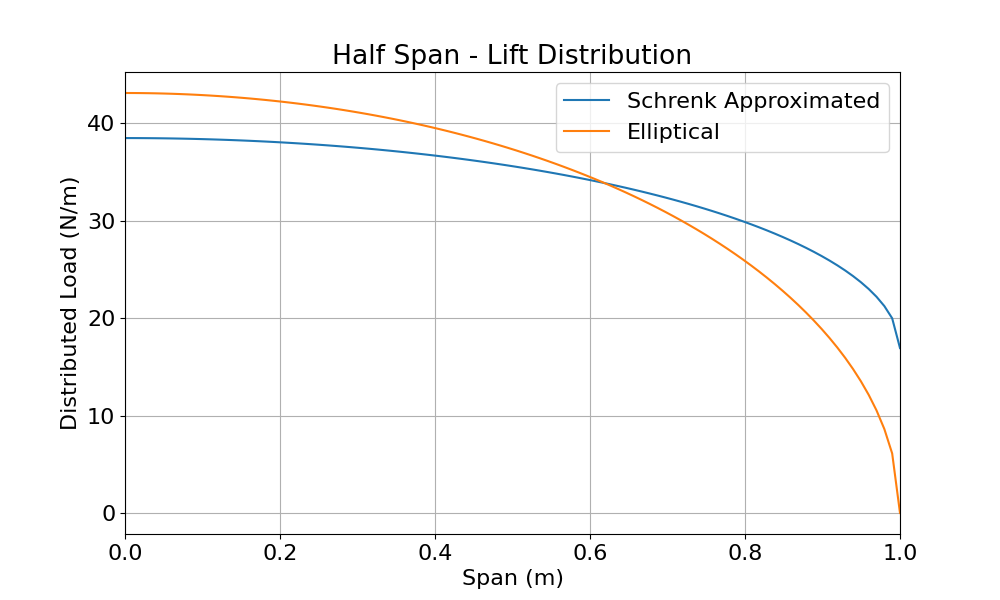
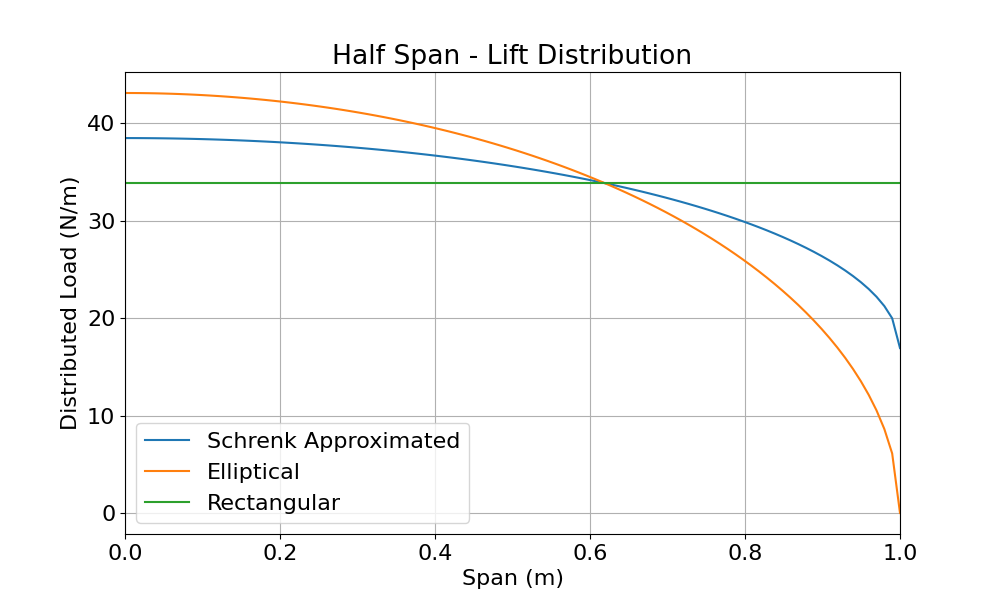
Correction to previous comments, modified the matlab to py code to set our values

diff --git a/AS5100_MP/week1_sd.py b/AS5100_MP/week1_sd.py
@@ -38,7 +38,7 @@ W = 6.9*9.81
 x = np.linspace(0, b/2, 100)
 
 c_elliptical = 4*S*np.sqrt(1 - (2*x/b)**2)/(np.pi*b)
-c_rectangular = 0.265
+c_rectangular = 0.265*np.ones_like(x)
 
 # Evaluating Schrenk Equivalent Chord
 c_schrenk = (c_rectangular + c_elliptical)/2
@@ -48,19 +48,21 @@ k = (W/2)/np.trapz(y=c_schrenk, x=x)
 
 q_schrenk = k*c_schrenk
 q_elliptical = k*c_elliptical
+q_rectangular = k*c_rectangular
 
 
-# # Lift Distribution Plot
-# plt.figure(figsize=(10, 6))
-# plt.plot(x, q_schrenk, label="Schrenk Approximated")
-# plt.plot(x, q_elliptical, label="Elliptical")
-# plt.title("Half Span - Lift Distribution")
-# plt.ylabel("Distributed Load (N/m)")
-# plt.xlabel("Span (m)")
-# plt.grid()
-# plt.legend()
-# plt.xlim(0, 1)
-# plt.show()
+# Lift Distribution Plot
+plt.figure(figsize=(10, 6))
+plt.plot(x, q_schrenk, label="Schrenk Approximated")
+plt.plot(x, q_elliptical, label="Elliptical")
+plt.plot(x, q_rectangular, label="Rectangular")
+plt.title("Half Span - Lift Distribution")
+plt.ylabel("Distributed Load (N/m)")
+plt.xlabel("Span (m)")
+plt.grid()
+plt.legend()
+plt.xlim(0, 1)
+plt.show()
 
 
 # Calculating Shear Force and Bending Moment 
@@ -74,32 +76,32 @@ for i in range(len(M)):
 np.savetxt("spanwise_shear_force.csv", np.column_stack((x, V)), delimiter=',')
 
 
-# # Shear Force Diagram
-# plt.figure(figsize=(10, 6))
-# plt.plot(x, V, label="Shear Force")
-# idx_Vmax = np.argmax(np.abs(V))
-# plt.scatter(idx_Vmax, -np.max(np.abs(V)), marker='^', c='r', s=75, label=f"Maximum Shear Force (Magnitude) = {max(abs(V)):.3g} N")
-# plt.title("Half Span - Shear Force Diagram")
-# plt.xlabel("Span (m)")
-# plt.ylabel("Shear Force (N)")
-# # plt.xlim(0, 1)
-# plt.legend()
-# plt.grid()
-# plt.show()
+# Shear Force Diagram
+plt.figure(figsize=(10, 6))
+plt.plot(x, V, label="Shear Force")
+idx_Vmax = np.argmax(np.abs(V))
+plt.scatter(idx_Vmax, -np.max(np.abs(V)), marker='^', c='r', s=75, label=f"Maximum Shear Force (Magnitude) = {max(abs(V)):.3g} N")
+plt.title("Half Span - Shear Force Diagram")
+plt.xlabel("Span (m)")
+plt.ylabel("Shear Force (N)")
+# plt.xlim(0, 1)
+plt.legend()
+plt.grid()
+plt.show()
 
 
-# # Bending Moment Diagram
-# plt.figure(figsize=(10, 6))
-# plt.plot(x, M, label="Bending Moment")
-# idx_Mmax = np.argmax(M)
-# plt.scatter(idx_Mmax, np.max(M), marker='^', c='r', s=75, label=f"Maximum Bending Moment (Magnitude) = {max(abs(M)):.3g} Nm")
-# plt.title("Half Span - Bending Moment Diagram")
-# plt.xlabel("Span (m)")
-# plt.ylabel("Bending Moment (Nm)")
-# # plt.xlim(0, 1)
-# plt.legend()
-# plt.grid()
-# plt.show()
+# Bending Moment Diagram
+plt.figure(figsize=(10, 6))
+plt.plot(x, M, label="Bending Moment")
+idx_Mmax = np.argmax(M)
+plt.scatter(idx_Mmax, np.max(M), marker='^', c='r', s=75, label=f"Maximum Bending Moment (Magnitude) = {max(abs(M)):.3g} Nm")
+plt.title("Half Span - Bending Moment Diagram")
+plt.xlabel("Span (m)")
+plt.ylabel("Bending Moment (Nm)")
+# plt.xlim(0, 1)
+plt.legend()
+plt.grid()
+plt.show()
 
 
 

diff --git a/AS5100_MP/without_spar/shear_flow.py b/AS5100_MP/without_spar/shear_flow.py
@@ -19,7 +19,7 @@ skin_thickness = 0.0005
 str_area = 10.0 * 0.001 * 0.001
 
 # Material / plate constants
-E = 70e9
+E = 69e9
 nu = 0.33
 
 # Shear force [N]
@@ -29,7 +29,7 @@ Vy = 100.0
 a = 0.20
 
 # Number of stringers on upper surface
-iu = 2
+iu = 4
 
 # Upper stringer indices
 # MATLAB indexing starts at 1, Python starts at 0.
@@ -39,18 +39,18 @@ iu = 2
 # ============================================================
 
 # Number of stringers
-iu = 2
-il = 2
+iu = 4
+il = 4
 
-# MATLAB-style panel boundary indices:
-# 1 = first point
-# 49 = last point
-iu_ind_matlab = np.array([1, 13, 25, 49])
-il_ind_matlab = np.array([1, 13, 25, 49])
+# # MATLAB-style panel boundary indices:
+# # 1 = first point
+# # 49 = last point
+# iu_ind_matlab = np.array([1, 13, 25, 49])
+# il_ind_matlab = np.array([1, 13, 25, 49])
 
-# Convert MATLAB indices to Python indices
-iu_ind = iu_ind_matlab - 1
-il_ind = il_ind_matlab - 1
+# # Convert MATLAB indices to Python indices
+# iu_ind = iu_ind_matlab - 1
+# il_ind = il_ind_matlab - 1
 
 # Plot settings
 font_size = 18
@@ -152,6 +152,33 @@ data1 = np.loadtxt(filename)
 data = data1 * c
 
 L = len(data)
+# mid = (L - 1) //2
+
+# iu_ind = np.linspace(0,   mid,   iu + 2).round().astype(int)
+# il_ind = np.linspace(mid, L - 1, il + 2).round().astype(int)
+
+iu_ind = np.array([0, 12, 16, 20, 30, 42])   # pick whichever point indices you want
+il_ind = np.array([42, 52, 61, 65, 69, 80])
+
+stringer_idx = np.concatenate([iu_ind[1:-1], il_ind[1:-1]])
+plt.figure(figsize=(10, 4))
+plt.plot(data[:, 0], data[:, 1], 'k-', linewidth=1.5, label="Airfoil")
+plt.scatter(data[stringer_idx, 0], data[stringer_idx, 1],
+            s=80, c='red', zorder=5, label="Stringers")
+ 
+for i in stringer_idx:
+    plt.annotate(f"{data[i,0]:.3f}", (data[i,0], data[i,1]),
+                 textcoords="offset points", xytext=(0, 8), fontsize=8, ha='center')
+ 
+plt.axis("equal")
+plt.grid(True, alpha=0.3)
+plt.xlabel("x [m]")
+plt.ylabel("y [m]")
+plt.title("Stringer Positions on Airfoil")
+plt.legend()
+plt.tight_layout()
+plt.show()
+
 
 # Allocate arrays
 dis = np.zeros(L - 1)
@@ -391,7 +418,7 @@ for i in range(iu):
 
 # Lower surface stringers
 for i in range(il):
-    idx = il_ind[i + 1] + mid
+    idx = il_ind[i + 1]
     a_boom2[idx] += str_area
 
 
@@ -447,8 +474,8 @@ print("========================================")
 
 for i in range(il + 1):
 
-    start = il_ind[i] + mid
-    end = il_ind[i + 1] + mid
+    start = il_ind[i]
+    end = il_ind[i + 1] 
 
     q_panel = qs2[start:end] + q02
 
@@ -558,8 +585,8 @@ for i in range(iu + 1):
 
 for i in range(il + 1):
 
-    start = il_ind[i] + mid
-    end = il_ind[i + 1] + mid
+    start = il_ind[i] 
+    end = il_ind[i + 1] 
 
     plt.plot(
         data[start:end + 1, 0] + cg[0],
